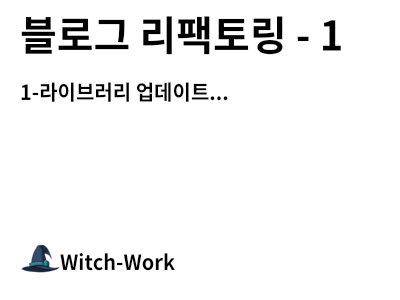
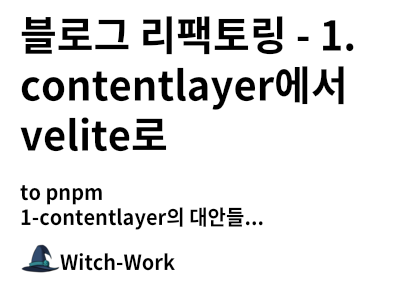
local 썸네일 만드는 작업 자동화

diff --git a/src/plugins/make-thumbnail.ts b/src/plugins/make-thumbnail.ts
@@ -2,8 +2,10 @@ import fs from 'fs/promises';
 import { join } from 'path';
 import path from 'path';
 
-import { createCanvas, GlobalFonts, Image } from '@napi-rs/canvas';
+import { createCanvas, GlobalFonts, Image, SKRSContext2D } from '@napi-rs/canvas';
 import { visit } from 'unist-util-visit';
+import { Node } from 'unist-util-visit/lib';
+import Data from 'unist-util-visit-parents';
 
 import blogConfig from '../../blog-config';
 import cloudinary from '../utils/cloudinary';
@@ -12,35 +14,38 @@ import getBase64ImageUrl from '../utils/generateBlurPlaceholder';
 const __dirname = path.resolve();
 GlobalFonts.registerFromPath(join(__dirname, 'fonts', 'NotoSansKR-Bold-Hestia.woff'), 'NotoSansKR');
 
+type ImageNode=Node & {url: string};
+
 // 모든 이미지 뽑아내기
-function extractImgSrc(tree) {
-  const images = [];
-  visit(tree, 'image', (node)=>{
+function extractImgSrc(tree: Node) {
+  const images: string[] = [];
+  // console.log(tree);
+  visit(tree, 'image', (node: ImageNode)=>{
     images.push(node.url);
   });
   return images;
 }
 
-const stringWrap = (s, maxWidth) => s.replace(
+const stringWrap = (s: string, maxWidth: number) => s.replace(
   new RegExp(`(?![^\\n]{1,${maxWidth}}$)([^\\n]{1,${maxWidth}})\\s`, 'g'), '$1\n'
 );
 
-function initCanvas(ctx, width, height) {
+function initCanvas(ctx: SKRSContext2D, width: number, height: number) {
   ctx.fillStyle = '#fff';
   ctx.fillRect(0, 0, width, height);
   ctx.fillStyle = '#000';
 }
 
-function drawTitle(ctx, title) {
+function drawTitle(ctx: SKRSContext2D, title: string) {
   title = stringWrap(title, 15);
-  title = title.split('\n');
+  const titleByLine = title.split('\n');
   ctx.font = '40px NotoSansKR';
-  for (let i = 0; i < title.length; i++) {
-    ctx.fillText(title[i], 20, 50 + 50 * i);
+  for (let i = 0; i < titleByLine.length; i++) {
+    ctx.fillText(titleByLine[i], 20, 50 + 50 * i);
   }
 }
 
-function drawHeadings(ctx, title, headingTree) {
+function drawHeadings(ctx: SKRSContext2D, title: string, headingTree) {
   title = stringWrap(title, 15);
   title = title.split('\n');
   
@@ -83,7 +88,6 @@ async function createThumbnailFromText(title, headings, filePath) {
   initCanvas(ctx, width, height);
 
   drawTitle(ctx, title);
-
   drawHeadings(ctx, title, headings);
 
   await drawBlogSymbol(ctx, 'Witch-Work');
@@ -97,37 +101,48 @@ async function createThumbnailFromText(title, headings, filePath) {
   return resultPath;
 }
 
-export default function makeThumbnail() {
-  return async function(tree, file) {
-    const images = extractImgSrc(tree);
-    if (images.length > 0) {
-      file.data.rawDocumentData.thumbnail = {
-        local: images[0],
-      };
-    }
-    else {
-      const title = file.value.split('\n')[1].replace('title: ', '');
-      const { headingTree, sourceFilePath } = file.data.rawDocumentData;
-      const b = await createThumbnailFromText(title, headingTree, sourceFilePath);
-      file.data.rawDocumentData.thumbnail = {
-        local: b,
-      };
-    }
-    if (blogConfig.imageStorage === 'local') {return;}
-    /* 이 시점엔 썸네일이 하나씩은 있다 */
-    const results = await cloudinary.uploader
-      .upload(
-        join(__dirname, 'public', file.data.rawDocumentData.thumbnail.local),{
-          public_id: file.data.rawDocumentData.thumbnail.local.replace('/','').replaceAll('/', '-').replaceAll('.','-'),
-          folder: 'blog/thumbnails',
-          overwrite:false,
-        }
-      );
-    
-    file.data.rawDocumentData.thumbnail.cloudinary =
-      `https://res.cloudinary.com/${process.env.NEXT_PUBLIC_CLOUDINARY_CLOUD_NAME}/image/upload/c_scale,w_300,f_auto/${results.public_id}`;
+type thumbnailData = {
+  local: string;
+  cloudinary?: string;
+  blurURL?: string;
+};
 
-    file.data.rawDocumentData.thumbnail.blurURL = await getBase64ImageUrl(file.data.rawDocumentData.thumbnail.cloudinary);
+
+export default function makeThumbnail() {
+  return async function(tree: Node, file) {
+    const images = extractImgSrc(tree);
+    file.data = {
+      local:images.length > 0 ? images[0] : '',
+    };
+    // const images = extractImgSrc(tree);
+    // if (images.length > 0) {
+    //   file.data.rawDocumentData.thumbnail = {
+    //     local: images[0],
+    //   };
+    // }
+    // else {
+    //   const title = file.value.split('\n')[1].replace('title: ', '');
+    //   const { headingTree, sourceFilePath } = file.data.rawDocumentData;
+    //   const b = await createThumbnailFromText(title, headingTree, sourceFilePath);
+    //   file.data.rawDocumentData.thumbnail = {
+    //     local: b,
+    //   };
+    // }
+    // if (blogConfig.imageStorage === 'local') {return;}
+    // /* 이 시점엔 썸네일이 하나씩은 있다 */
+    // const results = await cloudinary.uploader
+    //   .upload(
+    //     join(__dirname, 'public', file.data.rawDocumentData.thumbnail.local),{
+    //       public_id: file.data.rawDocumentData.thumbnail.local.replace('/','').replaceAll('/', '-').replaceAll('.','-'),
+    //       folder: 'blog/thumbnails',
+    //       overwrite:false,
+    //     }
+    //   );
+    
+    // file.data.rawDocumentData.thumbnail.cloudinary =
+    //   `https://res.cloudinary.com/${process.env.NEXT_PUBLIC_CLOUDINARY_CLOUD_NAME}/image/upload/c_scale,w_300,f_auto/${results.public_id}`;
+
+    // file.data.rawDocumentData.thumbnail.blurURL = await getBase64ImageUrl(file.data.rawDocumentData.thumbnail.cloudinary);
     /*console.log(file.data.rawDocumentData.thumbnail.blurURL)*/
   };
 

diff --git a/src/plugins/thumbnailUtil.ts b/src/plugins/thumbnailUtil.ts
@@ -1,0 +1,165 @@
+import fs from 'fs/promises';
+import path, { join } from 'path';
+
+import { createCanvas, GlobalFonts, SKRSContext2D, Image } from '@napi-rs/canvas';
+import { visit } from 'unist-util-visit';
+import { Node } from 'unist-util-visit/lib';
+import { isRelativePath, processAsset, VeliteMeta } from 'velite';
+
+import blogConfig from '../../blog-config';
+import cloudinary from '../utils/cloudinary';
+import getBase64ImageUrl from '../utils/generateBlurPlaceholder';
+
+const __dirname = path.resolve();
+GlobalFonts.registerFromPath(join(__dirname, 'fonts', 'NotoSansKR-Bold-Hestia.woff'), 'NotoSansKR');
+
+type ImageNode=Node & {url: string};
+
+// 모든 이미지 뽑아내기
+function extractImgSrc(tree: Node) {
+  const images: string[] = [];
+  // console.log(tree);
+  visit(tree, 'image', (node: ImageNode)=>{
+    images.push(node.url);
+  });
+  return images;
+}
+
+// max width에 맞게 문자열 자르고 줄바꿈하기
+const stringWrap = (s: string, maxWidth: number) => s.replace(
+  new RegExp(`(?![^\\n]{1,${maxWidth}}$)([^\\n]{1,${maxWidth}})\\s`, 'g'), '$1\n'
+);
+
+
+function initCanvas(ctx: SKRSContext2D, width: number, height: number) {
+  ctx.fillStyle = '#fff';
+  ctx.fillRect(0, 0, width, height);
+  ctx.fillStyle = '#000';
+}
+
+function drawTitle(ctx: SKRSContext2D, title: string) {
+  title = stringWrap(title, 15);
+  const titleByLine = title.split('\n');
+  ctx.font = '40px NotoSansKR';
+  for (let i = 0; i < titleByLine.length; i++) {
+    ctx.fillText(titleByLine[i], 20, 50 + 50 * i);
+  }
+}
+
+type HeadingType = {
+  title: string;
+  url: string;
+  items: HeadingType[];
+};
+
+
+function drawHeadings(ctx: SKRSContext2D, title: string, headingTree: HeadingType[]) {
+  title = stringWrap(title, 15);
+  const titleByLine = title.split('\n');
+  if (titleByLine.length > 3) {return;}
+
+  // h1의 앞쪽 2개만 추출
+  const thumbnailHeadings = headingTree.slice(0, 2);
+  const headingTexts = [];
+  for (let h of thumbnailHeadings) {
+    const headingText = h.title.replaceAll('. ', '-');
+    headingTexts.push(headingText);
+  }
+  headingTexts[headingTexts.length - 1] += '...';
+  ctx.font = '20px NotoSansKR';
+  for (let i = 0; i < headingTexts.length; i++) {
+    ctx.fillText(headingTexts[i], 20, 50 + 50 * titleByLine.length + 25 * i);
+  }
+}
+
+
+async function drawBlogSymbol(ctx: SKRSContext2D, blogName: string) {
+  const hatImage = await fs.readFile(join(__dirname, 'public', 'witch-new-hat-40x40.png'));
+  const image = new Image();
+  image.src = hatImage;
+
+  image.width = 40;
+  image.height = 40;
+
+  ctx.drawImage(image, 20, 240);
+
+  ctx.font = '20px NotoSansKR';
+  ctx.fillText(blogName, 60, 270);
+}
+
+async function createThumbnailFromText(title: string, headingTree: HeadingType[], filePath: string) {
+  const width = 400;
+  const height = 300;
+
+  const canvas = createCanvas(width, height);
+  const ctx = canvas.getContext('2d');
+
+  initCanvas(ctx, width, height);
+
+  drawTitle(ctx, title);
+  drawHeadings(ctx, title, headingTree);
+
+  await drawBlogSymbol(ctx, 'Witch-Work');
+
+  const fileName = `${filePath.replaceAll('/', '-').replaceAll('.','-')}-index-md-thumbnail.png`;
+
+  const pngData = await canvas.encode('png');
+  await fs.writeFile(join(__dirname, 'public', 'thumbnails', fileName), pngData);
+  const resultPath = `/thumbnails/${fileName}`;
+
+  return resultPath;
+}
+
+
+type thumbnailData = {
+  local: string;
+  cloudinary?: string;
+  blurURL?: string;
+};
+
+
+async function makeThumbnailFromMeta(meta: VeliteMeta, title: string, headingTree: HeadingType[], filePath: string) {
+  // source of the images
+  const images = extractImgSrc(meta.mdast as Node);
+  if (images.length > 0) {
+    // 이미지가 있으면 그걸로 썸네일 만들기
+    if (!isRelativePath(images[0])) {
+      return images[0];
+    }
+    else {
+      // 이미지가 상대 경로로 들어가 있다
+      const localImage = await processAsset(images[0], meta.path, meta.config.output.name, meta.config.output.base, true);
+      return localImage.src;
+    }
+  }
+  else {
+    // 썸네일 직접 만들기
+    const b = await createThumbnailFromText(title, headingTree, filePath);
+    return b;
+  }
+}
+
+
+// filePath는 썸네일 생성하는 경우에 새로 생성할 파일의 경로
+export async function makeThumbnail(meta: VeliteMeta, title: string, headingTree: HeadingType[], filePath: string): Promise<thumbnailData> {
+
+  const thumbnail: thumbnailData = {
+    local: await makeThumbnailFromMeta(meta, title, headingTree, filePath),
+  };
+
+  /* 이 시점엔 local 썸네일이 하나씩은 있다 */
+  if (blogConfig.imageStorage === 'local') {return thumbnail;}
+  console.log('cloudinary로 업로드', __dirname, thumbnail.local);
+  const results = await cloudinary.uploader
+    .upload(
+      join(__dirname, 'public', thumbnail.local),{
+        public_id: thumbnail.local.replace('/','').replaceAll('/', '-').replaceAll('.','-'),
+        folder: 'blog/thumbnails',
+        overwrite:false,
+      }
+    );
+  thumbnail.cloudinary = `https://res.cloudinary.com/${process.env.NEXT_PUBLIC_CLOUDINARY_CLOUD_NAME}/image/upload/c_scale,w_300,f_auto/${results.public_id}`;
+  thumbnail.blurURL = await getBase64ImageUrl(thumbnail.cloudinary);
+
+  return thumbnail;
+}

diff --git a/velite.config.ts b/velite.config.ts
@@ -1,12 +1,14 @@
+import { Node } from 'unist-util-visit/lib';
 import { defineConfig, defineCollection, s } from 'velite';
 
+import { makeThumbnail } from './src/plugins/thumbnailUtil';
 // `s` is extended from Zod with some custom schemas,
 // you can also import re-exported `z` from `velite` if you don't need these extension schemas.
 
-
+// remark는 이걸 통해서 markdown을 변환할 때 쓰인다. 따라서 그전에 썸네일을 빼놔야 하는데...
 const posts = defineCollection({
   name: 'Post', // collection type name
-  pattern: 'posts/**/*.md', // content files glob pattern
+  pattern: '**/*.md', // content files glob pattern
   schema: s
     .object({
       slug: s.path(), // auto generate slug from file path
@@ -15,10 +17,19 @@ const posts = defineCollection({
       date: s.string().datetime(), // date type
       description: s.string().max(200), // string type
       tags: s.array(s.string()), // array of string
-      body:s.markdown() // transform markdown to html
+      html:s.markdown(), // transform markdown to html
+      excerpt:s.excerpt(), // extract excerpt from markdown
+      headingTree:s.toc(),
+      metadata:s.metadata(),
+      // 썸네일을 일단 만들고...
     })
     // more additional fields (computed fields)
-    .transform(data => ({ ...data, permalink: `/blog/${data.slug}` }))
+    .transform(async (data, { meta }) => {
+      if (!meta.mdast) return data;
+      const thumbnail = await makeThumbnail(meta, data.title, data.headingTree, data.slug);
+      console.log(thumbnail);
+      return ({ ...data, permalink: `/posts/${data.slug}`, thumbnail });
+    })
 
 });
 

diff --git a/blog-config.ts b/blog-config.ts
@@ -46,7 +46,7 @@ const blogConfig: BlogConfigType = {
     category: 'General',
     categoryId: 'DIC_kwDOJnEDac4CXFDt',
   },
-  imageStorage: 'cloudinary',
+  imageStorage: 'local',
   thumbnail: '/witch.jpeg',
   googleAnalyticsId:'G-HBQKJEYL1K'
 };
